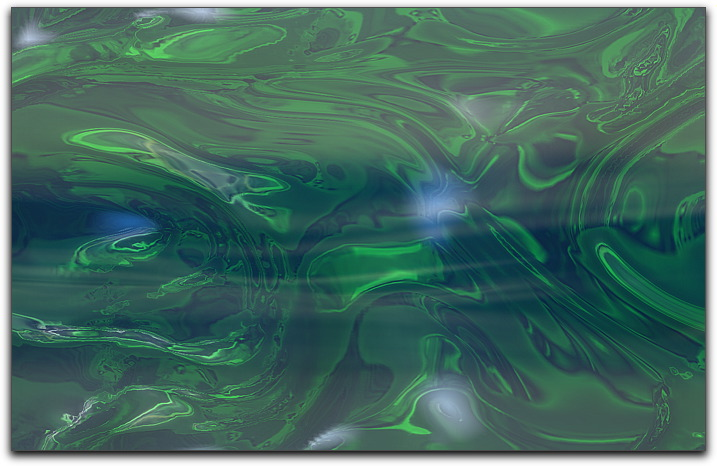
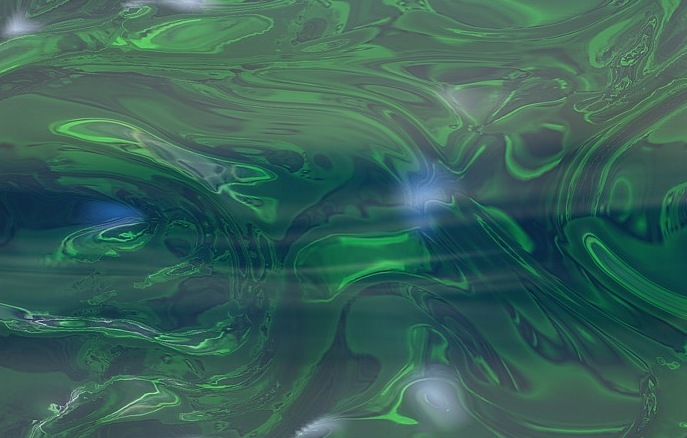
Resized background image.  Got background image to show up!  It still only shows up when we go to the pause menu though :(.  Had to set the opacity of every menu (pretty much) to false :-p.  Added documentation to OozeWars.java.

diff --git a/CS325 Project 3/src/oozeWars/OozeWars.java b/CS325 Project 3/src/oozeWars/OozeWars.java
@@ -26,7 +26,10 @@ import javax.swing.JOptionPane;
  *    
  * <p>OozeWars.java does many things in the initialization and maintaining of the state of
  *    the game.  Particularly, it initializes the setup of the JFrame that contains the game's
- *    graphics.  It also 
+ *    graphics.  It also sets up the players' controls, initializes blobs, initializes the
+ *    background image, initializes the songs and chooses one to play randomly, creates 
+ *    a file for the high scores, and creates the Agent that will be scheduled to deal with 
+ *    all the Particles in the game.
  * @author Nick Kitten<br />Sean Fedak
  *
  */
@@ -58,7 +61,7 @@ public class OozeWars extends Game
 	//can go to.  After that, the players will not be able to move further
 	private int MAX_X, MAX_Y;
 	
-	//Used for rendering, scales the size of the window down
+	/**Used for rendering, scales the size of the window down*/
 	public final double SCALE = 0.25;
 	
 	//The width and height of the OozeView
@@ -97,11 +100,10 @@ public class OozeWars extends Game
 		for(int i = 0; i < numPlayers; i++)
 			controls[i] = setPlayerControls(i);
 		
-		System.out.println(System.getProperty("user.dir"));
+		//System.out.println(System.getProperty("user.dir"));
 		String imgPath = "cells_bg.jpg";
 
 		backdrop = new Backdrop(imgPath);
-		//System.out.println("User root: " + Preferences.userRoot().absolutePath());
 		
 		if(prefs.getLong("High Score", defaultHighScore) == 5000)
 		{
@@ -109,8 +111,6 @@ public class OozeWars extends Game
 			try{prefs.flush();}
 			catch(BackingStoreException e){};
 		}
-		
-		
 	}
 
 	/* (non-Javadoc)
@@ -193,6 +193,9 @@ public class OozeWars extends Game
 			pc.resetBooleans();
 	}
 	
+	/**
+	 * Starts the game's music by picking a random song.
+	 */
 	public void startMusic()
 	{
 		try 
@@ -202,12 +205,18 @@ public class OozeWars extends Game
 		catch (InvalidMidiDataException e) {e.printStackTrace();}
 	}
 	
+	/**
+	 * Stops the game's music.  Will stop multiple songs if more than one is playing.
+	 */
 	public void stopMusic()
 	{
 		for(Midi song : songs)
 			song.stop();
 	}
 	
+	/**
+	 * Delete's the preference file created for the high score.
+	 */
 	public void deleteHighScore()
 	{
 		try{ Preferences.userRoot( ).node(key).removeNode( ); }
@@ -390,6 +399,11 @@ public class OozeWars extends Game
 		return numPlayers;
 	}
 	
+	/**
+	 * Sets the number of players in the game to the specified amount.
+	 * @param i
+	 * :  The number that the game's current number of players will be set to.
+	 */
 	public void setNumPlayers(int i)
 	{
 		if(i > 2 || i < 1)
@@ -399,8 +413,9 @@ public class OozeWars extends Game
 	}
 
 	/**
+	 * Returns the controls for all the players currently in-game.
 	 * @return 
-	 * The controls
+	 * The players' controls
 	 */
 	public PlayerControls[] getControls() 
 	{
@@ -417,13 +432,23 @@ public class OozeWars extends Game
 	}
 
 	/**
+	 * Sets the blobs in-game to the ArrayList of blobs passed
 	 * @param blobs 
-	 * :  The new list of blobs in the game.
+	 * :  The new list of blobs that will be in the game.
 	 */
-	public void setBlobs(ArrayList<Blob> blobs) 
+	public void setBlobs(LinkedHashMap<Integer, Blob> blobs) 
 	{
+		allParticles.clear();
+		for(Blob b : blobs.values())
+		{
+			for(Particle p : b.getParticles())
+				addParticle(p);
+		}
+		
+		hBlobs = blobs;
 	}
 	
+	/*
 	/**
 	 * Method to create a Location for the Particle in question.  This is for use in the
 	 * implementation of a Sparse Grid.
@@ -431,7 +456,7 @@ public class OozeWars extends Game
 	 * :  The Particle for which we wish to find the location.
 	 * @return
 	 * A Location of the Particle in question.
-	 */
+
 	public Location getLocation(Particle aParticle)
 	{
 		double divX = aParticle.getX()/CELL_WIDTH;
@@ -442,6 +467,7 @@ public class OozeWars extends Game
 		boolean isTop = divY - y < .5;
 		return new Location(x, y, allParticles.size(), isLeft, isTop);
 	}
+	*/
 	
 	/**
 	 * A method used to remove a Particle from allParticles.
@@ -517,7 +543,7 @@ public class OozeWars extends Game
 				if(e.getKeyCode() == KeyEvent.VK_P )
 				{
 					togglePaused();
-					((OozeView)view).swapToPauseMenu();
+					((OozeView)view ).swapToPauseMenu();
 				}
 			}
 			
@@ -561,11 +587,6 @@ public class OozeWars extends Game
 	 */
 	public static void main(String[] args) 
 	{	
-		//String answer = JOptionPane.showInputDialog("How many players?");
-		// cancel pressed or no input
-		//if( answer == null )
-			//System.exit(0);
-		//int n = Integer.parseInt(answer);
 		OozeWars game = new OozeWars(30, 2);
 		OozeView view = new OozeView(game, 3, 800, 600, 0.25);
 		JFrame frame = view.createFrame("Ooze Wars");
@@ -810,11 +831,12 @@ public class OozeWars extends Game
 		}
 	}
 	
+	/*
 	/**
 	 * Used for the HashMaps of the Sparse Grid.  Has a lookup index for an associated Particle
 	 * in <i>allParticles</i>.
 	 * @author Nick Kitten <br />Sean Fedak
-	 */
+	 
 	protected static class Location
 	{
 		public int x, y;
@@ -830,7 +852,7 @@ public class OozeWars extends Game
 		 * :  The y location associated with this Location.
 		 * @param index
 		 * :  The index in <i>allParticles</i> associated with the Particle in this Location.
-		 */
+		 
 		public Location(int x, int y, int index, boolean isLeft, boolean isTop)
 		{
 			this.x = x;
@@ -842,7 +864,7 @@ public class OozeWars extends Game
 
 		/* (non-Javadoc)
 		 * @see java.lang.Object#hashCode()
-		 */
+		 
 		@Override
 		public int hashCode() 
 		{
@@ -851,7 +873,7 @@ public class OozeWars extends Game
 
 		/* (non-Javadoc)
 		 * @see java.lang.Object#equals(java.lang.Object)
-		 */
+		 
 		@Override
 		public boolean equals(Object obj) 
 		{
@@ -860,21 +882,33 @@ public class OozeWars extends Game
 			return l.x == x && l.y == y;
 		}
 	}
+	*/
 	
+	/* The class that gets scheduled to maintain all Particle behavior */
 	private class ParticleManager implements Agent
 	{
+		//Used to determine which Particles have been touched
 		private BitSet touchedSet;
+		//The Particle's range of influence
 		private final double RANGE = CELL_WIDTH * 0.5;
+		//The maximum number of particles that can be in the game at a given time
 		private final int MAX_PARTICLES;
+		//The instance of the game that this particle manager is managing particles for
 		private OozeWars ow;
+		//The probability that a neutral particle will spawn
 		private final double neutralSpawnProbability = getProbability(1, .5);
+		//The probability that a powerUp particle will spawn
 		private final double powerUpSpawnProbability = getProbability(30, .05);
 		
+		/* Calculates a probability based on a timeframe as well as a base probability */
 		private double getProbability(double time, double p)
 		{
 			return Math.exp(Math.log(p)/(time*frameRate));
 		}
 		
+		/* The constructor for a ParticleManager
+		 * Accepts an instance of OozeWars and the maximum number of particles that can be
+		 * in-game at once */
 		public ParticleManager(OozeWars ow, int maxParticles)
 		{
 			MAX_PARTICLES = maxParticles;
@@ -883,6 +917,9 @@ public class OozeWars extends Game
 			this.ow = ow;
 		}
 
+		/* (non-Javadoc) 
+		 * @see oozeWars.Agent#go(Game game, long timestep, int priorityLevel) 
+		 */
 		@Override
 		public void go(Game game, long timestep, int priorityLevel) 
 		{
@@ -996,6 +1033,9 @@ public class OozeWars extends Game
 			}
 		}
 		
+		/*
+		 * Finds all the Particles that are currently a part of each Blob in the game.
+		 */
 		private void getConnectivity()
 		{
 			ArrayList<Particle> constituents;
@@ -1039,11 +1079,19 @@ public class OozeWars extends Game
 			}
 		}
 		
+		/*
+		 * (non-Javadoc)
+		 * @see java.util.BitSet#clear()
+		 */
 		private void wipeClean()
 		{
 			touchedSet.clear();
 		}
 		
+		/*
+		 * Makes it so each Particle in the game has no list of neighbors.
+		 * Used when re-evaluating which Particles are neighbors
+		 */
 		private void clearNeighbors()
 		{
 			for( Particle p : allParticles )
@@ -1092,6 +1140,9 @@ public class OozeWars extends Game
 			}
 		}
 		
+		/*
+		 * Used to keep the Particles from going off-screen
+		 */
 		private void keepInBounds( double xMax, double yMax )
 		{
 			for( Particle p : allParticles )
@@ -1112,6 +1163,9 @@ public class OozeWars extends Game
 			}
 		}
 		
+		/*
+		 * Not used
+		 */
 		private void applyConstraints( double pushDist )
 		{
 			for( Particle p : allParticles )
@@ -1213,6 +1267,9 @@ public class OozeWars extends Game
 		}
 	}
 	
+	/*
+	 * Loads all the Midi songs for this game into memory and makes them playable.
+	 */
 	private static Midi[] initializeSongs()
 	{
 		Midi[] songs = new Midi[4];

diff --git a/CS325 Project 3/src/oozeWars/MenuScreen.java b/CS325 Project 3/src/oozeWars/MenuScreen.java
@@ -34,7 +34,6 @@ public class MenuScreen extends JPanel implements ActionListener
 	public MenuScreen(final OozeWars game, OozeView view) 
 	{
 		super();
-		setLayout(new OverlayLayout(this));
 		
 		this.game = game;
 		this.view = view;
@@ -95,13 +94,16 @@ public class MenuScreen extends JPanel implements ActionListener
 		
 		//mainBox.add(Box.createGlue());
 		mainMenu = new JPanel();
+		mainBox.setOpaque(false);
 		mainMenu.add(mainBox);
-		//mainMenu.setOpaque(false);
+		mainMenu.setOpaque(false);
+		
 		foreground.add(mainMenu, BorderLayout.CENTER);
 		
 		//************Initialize Pause Menu*****************
 		pauseBox = new Box(BoxLayout.Y_AXIS);
 		JLabel pauseLabel = new JLabel("PAUSED", JLabel.CENTER);
+		pauseLabel.setFont(font);
 		pauseBox.add(pauseLabel);
 		pauseLabel.setAlignmentX(.5f);
 		pauseBox.add(Box.createVerticalStrut(20));
@@ -112,6 +114,7 @@ public class MenuScreen extends JPanel implements ActionListener
 		pauseBox.add(returnToMenu[0]);
 		returnToMenu[0].setAlignmentX(.5f);
 		pauseMenu = new JPanel();
+		pauseBox.setOpaque(false);
 		pauseMenu.add(pauseBox);
 		pauseMenu.setOpaque(false);
 		//**************************************************
@@ -126,6 +129,7 @@ public class MenuScreen extends JPanel implements ActionListener
 		deleteHS.setToolTipText("Delete the high scores.");
 		scores.add(deleteHS);
 		scores.add(returnToMenu[1]);
+		scores.setOpaque(false);
 		//scores.add(scoresBox);
 		//***************************************************
 		
@@ -157,6 +161,7 @@ public class MenuScreen extends JPanel implements ActionListener
 		aboutGame.add( Box.createVerticalStrut(100) );
 		aboutGame.add( aboutText );
 		aboutGame.add( returnToMenu[2] );
+		aboutGame.setOpaque(false);
 		//***************************************************
 		
 		//***********Initialize Instructions Menu****************************************
@@ -195,15 +200,26 @@ public class MenuScreen extends JPanel implements ActionListener
 		JLabel instructLabel = new JLabel("Instructions");
 		instructLabel.setFont(font);
 		instructLabel.setAlignmentX(.5f);
+		instructLabel.setOpaque(false);
 		howToPlay.add( instructLabel );
 		howToPlay.add( instructText );
 		howToPlay.add( returnToMenu[3] );
+		howToPlay.setOpaque(false);
 		//******************************************************************************
 		
 
-		add( background );
-		add( foreground );
+		setLayout(new OverlayLayout(this)
+		{
+			public void paintComponent(Graphics g)
+			{
+				background.paint(g);
+				foreground.paint(g);
+			}
+		});
+		add( foreground, "foreground" );
+		add( background, "background" );
 		background.setVisible(true);
+		foreground.setOpaque(false);
 		foreground.setVisible(true);
 		this.setVisible(true);
 		validate();

diff --git a/CS325 Project 3/src/oozeWars/OozeView.java b/CS325 Project 3/src/oozeWars/OozeView.java
@@ -14,6 +14,14 @@ import java.util.Iterator;
 import com.jhlabs.image.AlphaThresholdFilter;
 import com.jhlabs.image.FadeFilter;
 
+/**
+ * <center><b>OOZEVIEW.JAVA</b></center>
+ * This extends <code>View.java</code> and is used to customize how things are drawn to the
+ * screen.  OozeView also holds a reference to the menu screens.
+ * 
+ * <p>
+ * @author Nick Kitten<br />Sean Fedak
+ */
 @SuppressWarnings("serial")
 public class OozeView extends View 
 {
